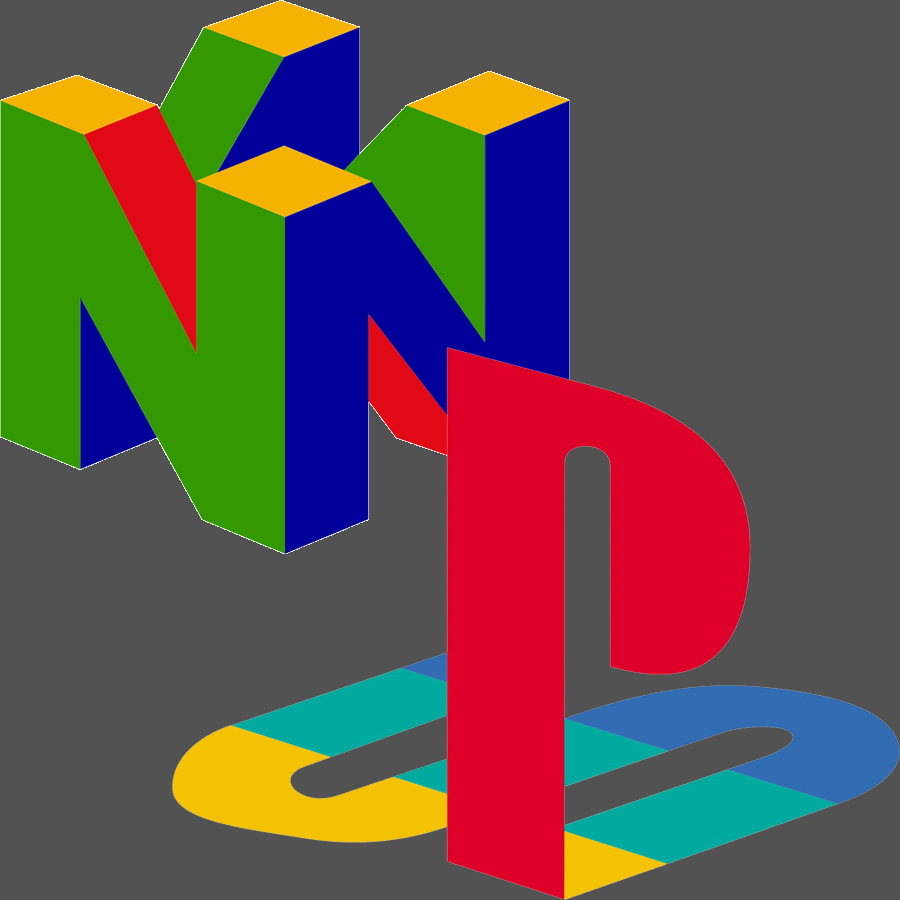
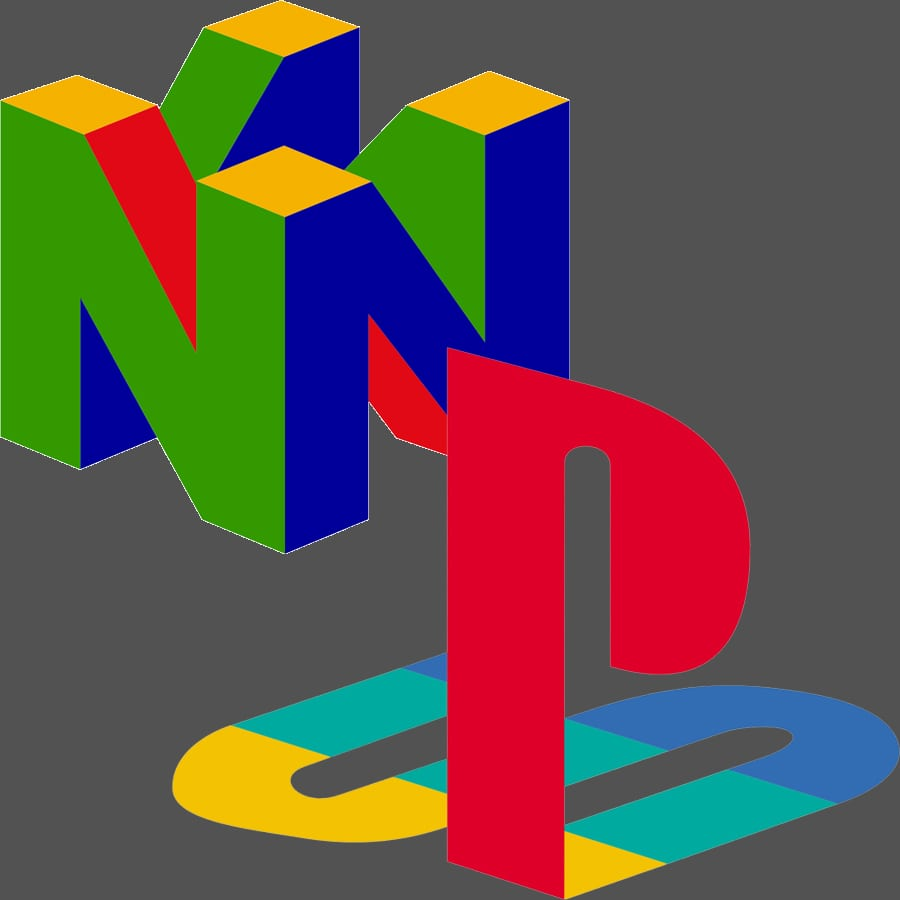
Updating paths and navbar; reduced image size

diff --git a/components/navbar.js b/components/navbar.js
@@ -40,7 +40,14 @@ const funAddress = "/fun";
 function IsActiveLink( pagename, address ) {
     const router = useRouter();
     var item;
-    if (router.asPath === address) {
+    // Remove trailing slashes if present before comparison if not home page
+    const currentPath = router.asPath;
+    if ((currentPath.length > 1) && router.asPath.endsWith('/'))
+    {
+        currentPath.slice(0, -1);
+    }
+
+    if (currentPath === address) {
         item = <Link href={address}>
                 <a className='navbar-item is-justify-content-center is-active'>{pagename}</a>
                </Link>

diff --git a/next.config.js b/next.config.js
@@ -1,9 +1,13 @@
 /** @type {import('next').NextConfig} */
 const nextConfig = {
   reactStrictMode: true,
+
   images: {
             loader: "custom",
           },
+
+  trailingSlash : true,
+
   basePath: "/~smithgm",
 }
 
